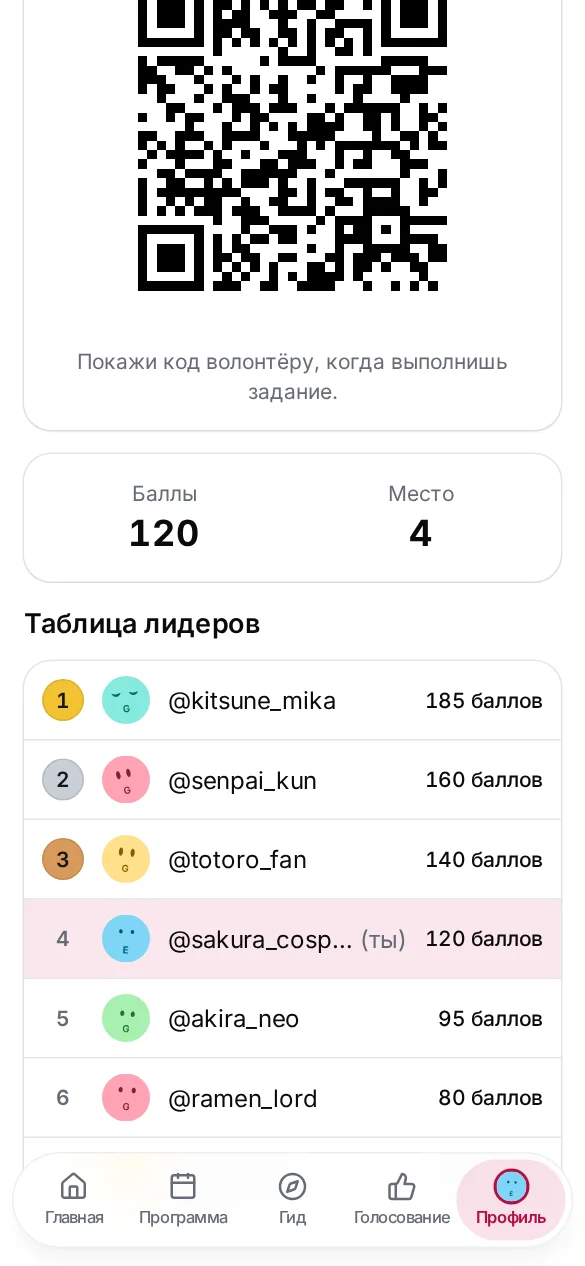
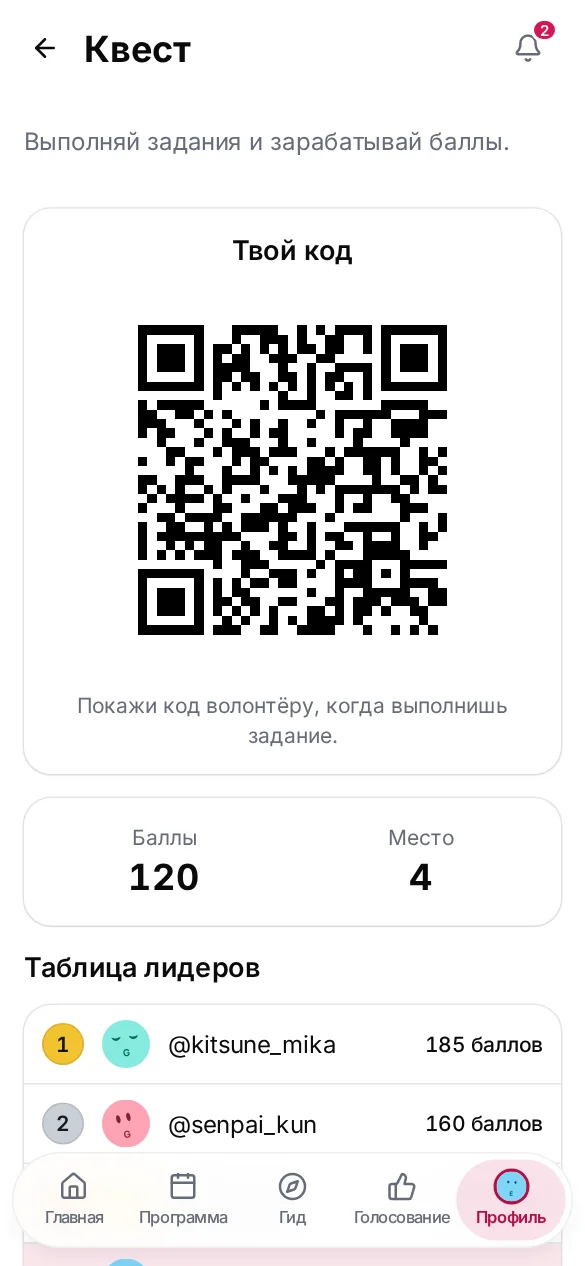
docs: show the top of the quest page in the readme gallery
The capture no longer scrolls to the leaderboard: the first screen, with
the QR code, points and place, and the board's first rows, is what a
player sees on opening the page. README alt text follows.

Claude-Session: https://claude.ai/code/session_01UNiTeaDDzqRYnwUvryKmkP

diff --git a/frontend/e2e/gallery/readme-gallery.spec.ts b/frontend/e2e/gallery/readme-gallery.spec.ts
@@ -167,11 +167,6 @@ test('quest', async ({ page, api }) => {
 	await expect(page.getByRole('img', { name: 'QR-код игрока @sakura_cosplay' })).toBeVisible();
 	await expect(page.locator('li[aria-current="true"]')).toContainText('@sakura_cosplay');
 	await settle(page);
-	// The code fills the first screen; scrolled to the standings, the shot shows the
-	// podium medals and the player's own row instead of a bare QR.
-	await page.getByRole('heading', { name: 'Таблица лидеров' }).evaluate((heading) => {
-		heading.scrollIntoView({ block: 'center' });
-	});
 	await saveWebp(page, 'quest');
 });
 

diff --git a/frontend/e2e/gallery/data.ts b/frontend/e2e/gallery/data.ts
@@ -157,7 +157,7 @@ export const notifications: NotificationDto[] = [
 
 // The quest standings behind the profile hub's quest row and the quest page: the
 // gallery's visitor (persona id and avatar) sits fourth, just off the podium, so
-// the page shows the medals and the player's own highlighted row together.
+// a capture scrolled to the board shows the medals and their own row together.
 const QUEST_RIVALS = [
 	{ username: 'kitsune_mika', points: 185 },
 	{ username: 'senpai_kun', points: 160 },

diff --git a/README.md b/README.md
@@ -51,7 +51,7 @@ This is a monorepo: a FastAPI backend, a SvelteKit frontend, and a shared OpenAP
     <td><img src="docs/assets/readme-gallery/guide.webp" width="150" alt="Guide: the festival's date, times and social links, the address, the venue map, the rules and a page per festival activity"></td>
     <td><img src="docs/assets/readme-gallery/map.webp" width="150" alt="Map: both floor plans, then «Что где», the posters' numbered legend as a list"></td>
     <td><img src="docs/assets/readme-gallery/profile.webp" width="150" alt="Profile: the account, the quest balance, a linked ticket, notification status and the theme switch"></td>
-    <td><img src="docs/assets/readme-gallery/quest.webp" width="150" alt="Quest: the player's QR code for volunteers, their points and place, and the leaderboard with gold, silver and bronze for the top three and the player's own row highlighted"></td>
+    <td><img src="docs/assets/readme-gallery/quest.webp" width="150" alt="Quest: the player's QR code for volunteers, their points and place, and the top of the leaderboard"></td>
   </tr>
 </table>
 
